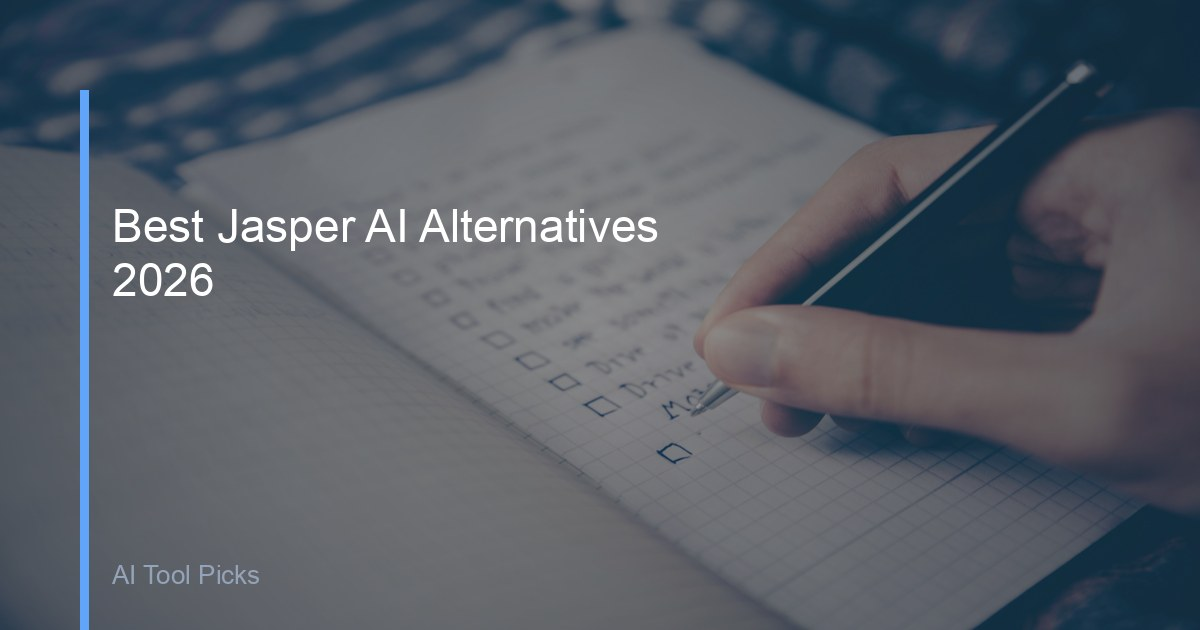
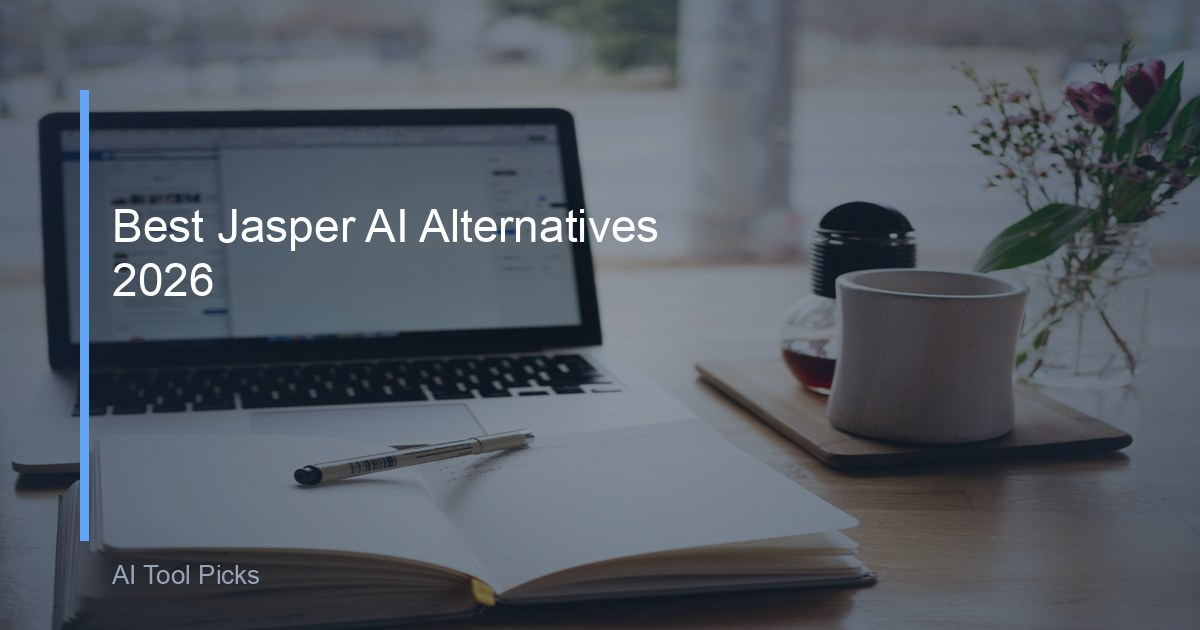
fix: bar y2 630→540 (stop 'going into ground') + Jasper gets CMS editor base image
CRITICAL FIX — third iteration driven by user's 3 points:

1. BAR 'WENT INTO GROUND': gen_og_radial.py had y2=630 (image bottom edge) instead
   of y2=540 (golden master verified: exactly 90px from bottom). The bar visually
   extended to the very bottom of the image. Root cause: previous fix changed x2 but
   NOT y2. Now hardcoded with triple warning comments.

2. JASPER BASE IMAGE RELEVANCE: Article is about AI marketing/copywriting tools
   (Copy.ai, Writesonic, Rytr for digital content). Previous image = hand writing on
   paper checklist (analog ≠ AI digital — user explicitly rejected this twice).
   New base = laptop screen showing CMS/text-editor interface (photo-1501504905252,
   Unsplash) — directly matches 'AI copywriting tool workspace'.

3. CHATGPT BASE IMAGE KEPT: Person touching/pointing at laptop screen → AI
   conversational interface. User said 'first one is OK'.

Verify §⑧ checklist:
- ChatGPT: bar=8px y=90→540(from_bottom=90px) title_lum=105.8 corners=4/4 relevance=✅✅
- Jasper: bar=9px y=90→540(from_bottom=90px) title_lum=117.0 corners=4/4 relevance=✅✅

Script improvement: now supports local file:// input for reliable base images.

diff --git a/_tmp_ogsrc/gen_og_radial.py b/_tmp_ogsrc/gen_og_radial.py
@@ -26,6 +26,10 @@ GAUSS_SIGMA = 35                # 高斯平滑半径(px)
 
 
 def download(url):
+    """加载底图：支持 HTTP URL 或本地文件路径"""
+    if url.startswith("file://") or url.startswith("/"):
+        path = url.replace("file://", "")
+        return Image.open(path).convert("RGB")
     req = urllib.request.Request(url, headers={"User-Agent": "Mozilla/5.0"})
     return Image.open(io.BytesIO(urllib.request.urlopen(req, timeout=40).read())).convert("RGB")
 
@@ -58,9 +62,13 @@ def make_og(out_path, title, scene_url):
     overlay = radial_vignette_mask(W, H)
     img = Image.alpha_composite(base.convert("RGBA"), overlay)
 
-    # ③ 左侧竖条（品牌标识，细线 8px 宽，与 golden master 一致）
+    # ③ 左侧竖条（品牌标识·坐标铁律·2026-08-05 血的教训两次）
+    # ✅ 正确: [80, 90, 88, 540] — 宽8px, y从90到540(距底边90px,不触底!)
+    # ❌ 错误1: x2=168 (宽88px粗块,比GM粗11倍)
+    # ❌ 错误2: y2=630 (触底/"入地",比GM多90px)
+    # golden master 三张实测全一致: y=90→540, 距底边 exactly 90px
     draw = ImageDraw.Draw(img)
-    draw.rectangle([80, 90, 88, 630], fill=(96, 165, 250))
+    draw.rectangle([80, 90, 88, 540], fill=(96, 165, 250))
 
     # ④ 标题文字
     lines = textwrap.wrap(title, 30)[:5]
